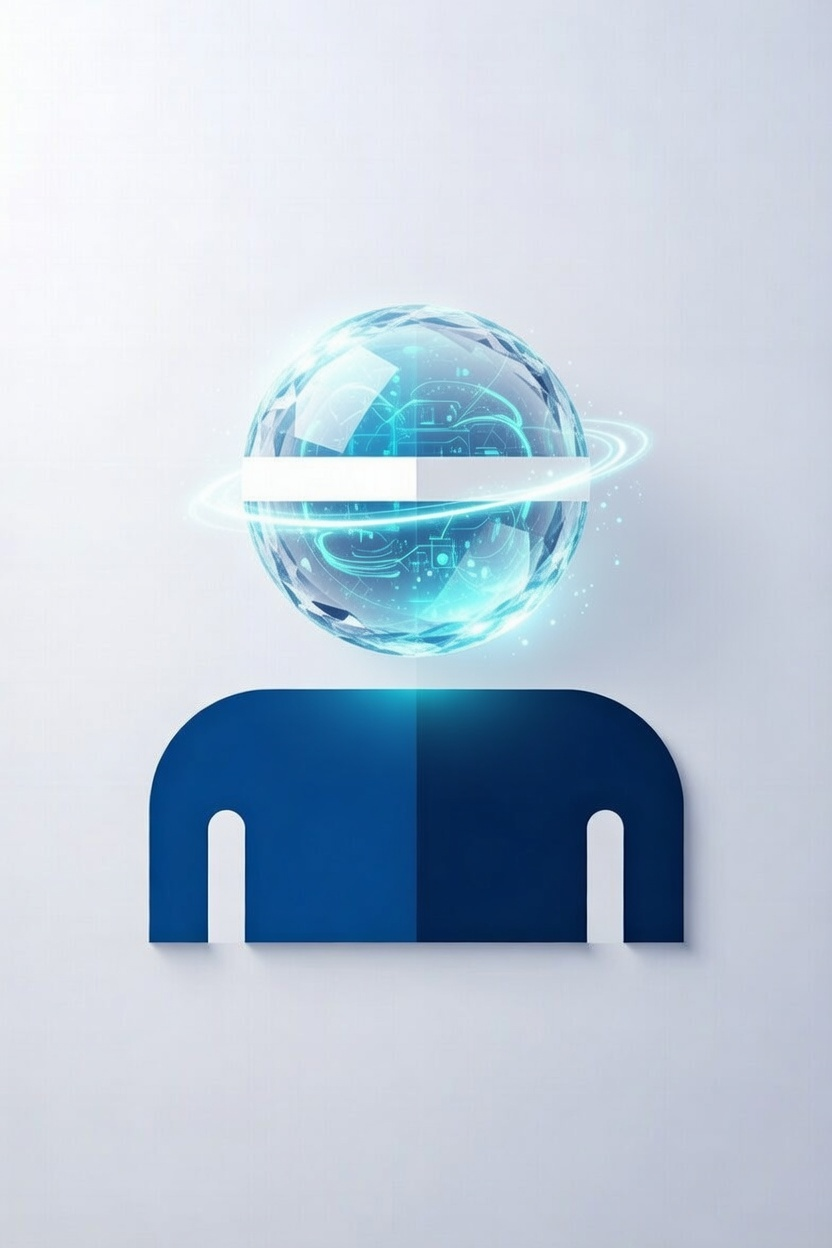
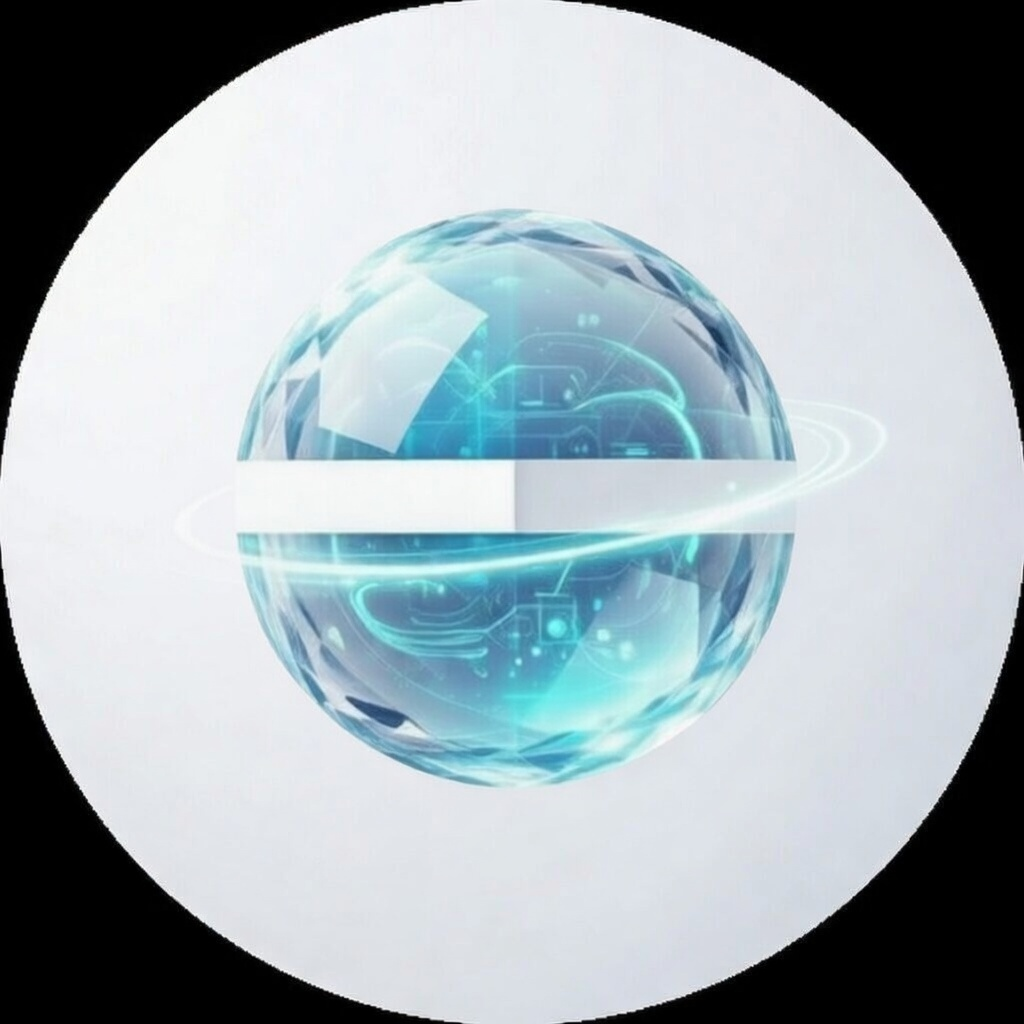
Update app.js and assistant image

diff --git a/static/js/app.js b/static/js/app.js
@@ -57,8 +57,8 @@ let statusStartTime = null;
 /** @type {Array<{path: string, name: string, previewUrl: string}>} Selected image files */
 let selectedImages = [];
 
-/** @type {boolean} Whether MongoDB database is available - trust cached value, default true to avoid flash */
-let dbAvailable = localStorage.getItem('dbAvailable') !== 'false';
+/** @type {boolean} Whether MongoDB database is available - default true, only show banner after API confirms it's down */
+let dbAvailable = true;
 
 /** @type {number|null} Interval for checking DB status */
 let dbCheckInterval = null;
@@ -1037,21 +1037,13 @@ document.addEventListener('DOMContentLoaded', async () => {
     }
 
     // History is enabled - do full initialization
-    // Only show banner from cache if DB was previously unavailable
-    if (!dbAvailable) {
-        updateDbStatusBanner();
-    }
-    checkAuthStatus();
-    startDbStatusCheck();
-
-    // Render cached chat list immediately (instant UI)
+    // Render cached UI FIRST for instant display
     const cachedChats = loadCachedChatList();
     if (cachedChats && cachedChats.length > 0) {
         console.log('[INIT] Rendering cached chat list:', cachedChats.length, 'chats');
         renderChatHistory(cachedChats);
     }
 
-    // Render cached messages for saved chat immediately
     const savedChatId = localStorage.getItem('currentChatId');
     if (savedChatId) {
         const cachedData = loadChatFromCache(savedChatId);
@@ -1068,6 +1060,17 @@ document.addEventListener('DOMContentLoaded', async () => {
 
     // Sync any unsynced chats from previous sessions
     syncUnsyncedChats();
+
+    // ASYNC: Start background tasks (non-blocking)
+    checkAuthStatus();  // non-blocking
+
+    // Only check DB status if cache shows it was unavailable
+    if (!dbAvailable) {
+        startDbStatusCheck();  // non-blocking - will show banner if DB still down
+    } else {
+        // DB was available - check in background after a delay
+        setTimeout(() => startDbStatusCheck(), 1000);
+    }
 
     // Load settings and chats from server in parallel
     const [settingsResult, chats] = await Promise.all([
